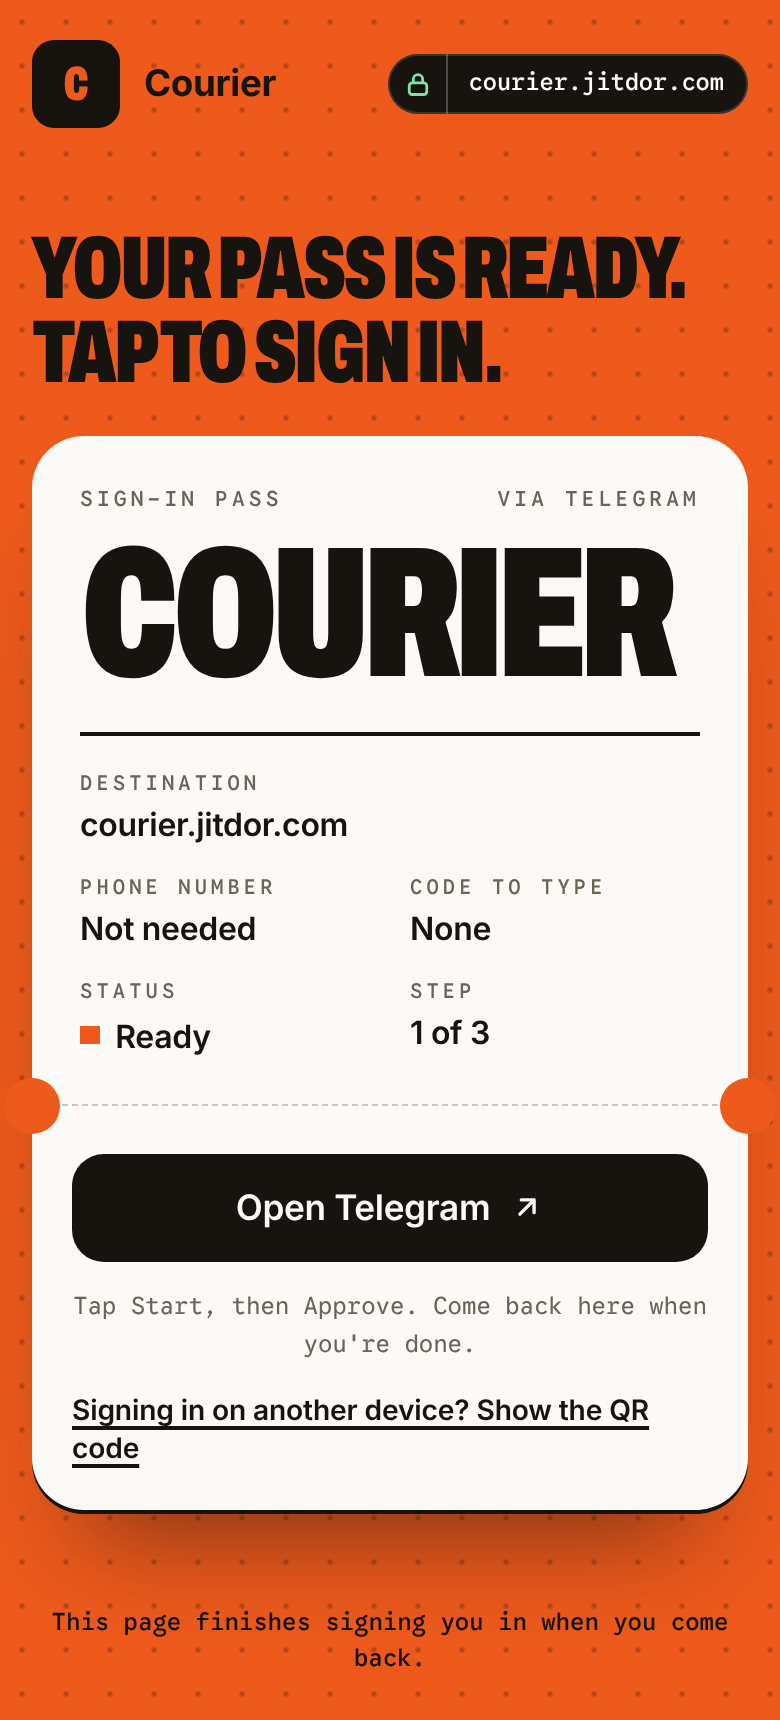
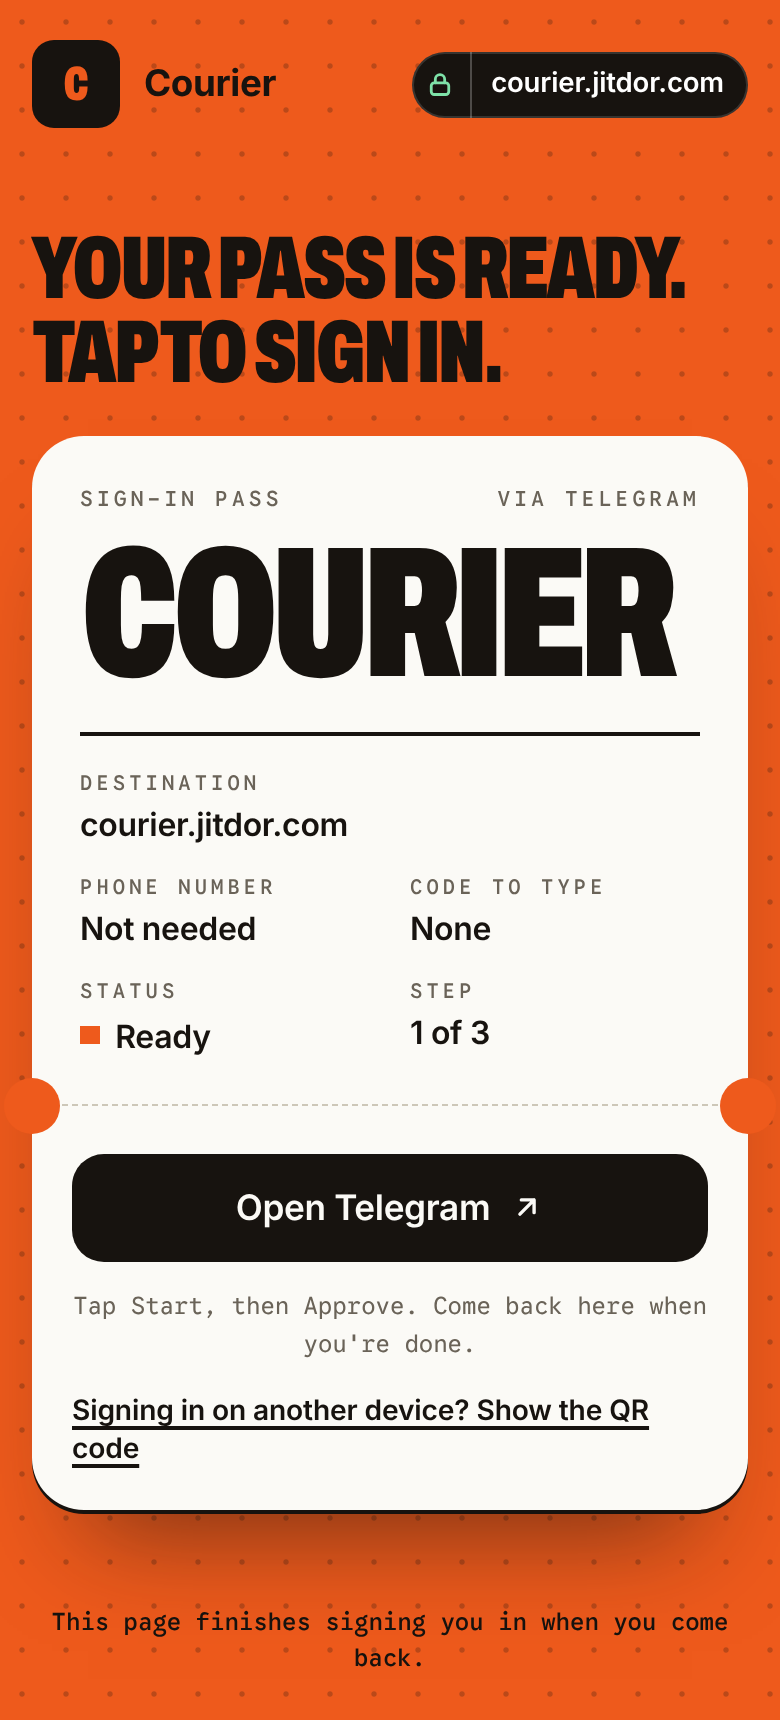
Address pill: Inter 600, centred on the pixel grid
The address is set in Inter 600 like a browser's address bar, instead of the
monospace face, which spaced a lower-case address out like code. Text is
placed on whole device pixels, so padding alone jumped between a little low
and too high; with the values chosen the x-height and the lock are within a
third of a pixel of the middle of the pill on 1x, 2x and 3x screens
(measured from the rendered pixels, not by eye).

Claude-Session: https://claude.ai/code/session_01Fm8P6ct3acd1WpajC3GeS1

Changed region(s): [[0.4923, 0.0308, 0.9231, 0.0924]]

diff --git a/src/login-page.js b/src/login-page.js
@@ -221,7 +221,7 @@ function loginStyles(branding, fontsPath) {
   /* The address, in the shape of a browser's address bar: a lock on its own segment, then the host. */
   .tqa-site {
     display: flex; align-items: stretch; flex: 0 1 auto; min-width: 0; max-width: 100%; margin: 0 0 0 auto; border-radius: 999px; overflow: hidden;
-    background: var(--tqa-ink); color: #fff; font: 500 0.74rem/1.2 var(--tqa-mono);
+    background: var(--tqa-ink); color: #fff; font: 600 0.86rem/1.2 var(--tqa-font); letter-spacing: -0.005em;
     box-shadow: 0 0 0 1px color-mix(in srgb, #fff 14%, transparent) inset;
   }
   .tqa-lock { flex: none; display: grid; place-items: center; width: 30px; border-right: 1px solid color-mix(in srgb, #fff 24%, transparent); }
@@ -230,8 +230,9 @@ function loginStyles(branding, fontsPath) {
     -webkit-mask: ${MASK_LOCK} center / contain no-repeat; mask: ${MASK_LOCK} center / contain no-repeat;
   }
   .tqa-site-open .tqa-lock::before { background: #ffc15e; -webkit-mask-image: ${MASK_UNLOCK}; mask-image: ${MASK_UNLOCK}; }
-  /* Lower-case text has its weight in the x-height, about a pixel below the middle of the line; the extra bottom padding lifts it to the middle of the pill. */
-  .tqa-host { min-width: 0; padding: 7.5px 12px 8.5px 10px; overflow-wrap: anywhere; }
+  /* Lower-case text has its weight in the x-height, below the middle of the line, and browsers put text on whole device pixels, so padding alone
+     jumps between "a little low" and "too high". Measured on 1x, 2x and 3x screens, these values land the x-height within a third of a pixel of the middle. */
+  .tqa-host { min-width: 0; padding: 7.1px 12px 9.4px 10px; overflow-wrap: anywhere; }
   .tqa-stage { flex: 1; display: flex; flex-direction: column; justify-content: center; padding: clamp(1.5rem, 5vh, 3.5rem) 0 1.5rem; }
   .tqa-headline {
     margin: 0 0 clamp(1.25rem, 3.5vw, 2rem); font: 900 clamp(2rem, 11.4vw, 4rem)/0.94 var(--tqa-display);
